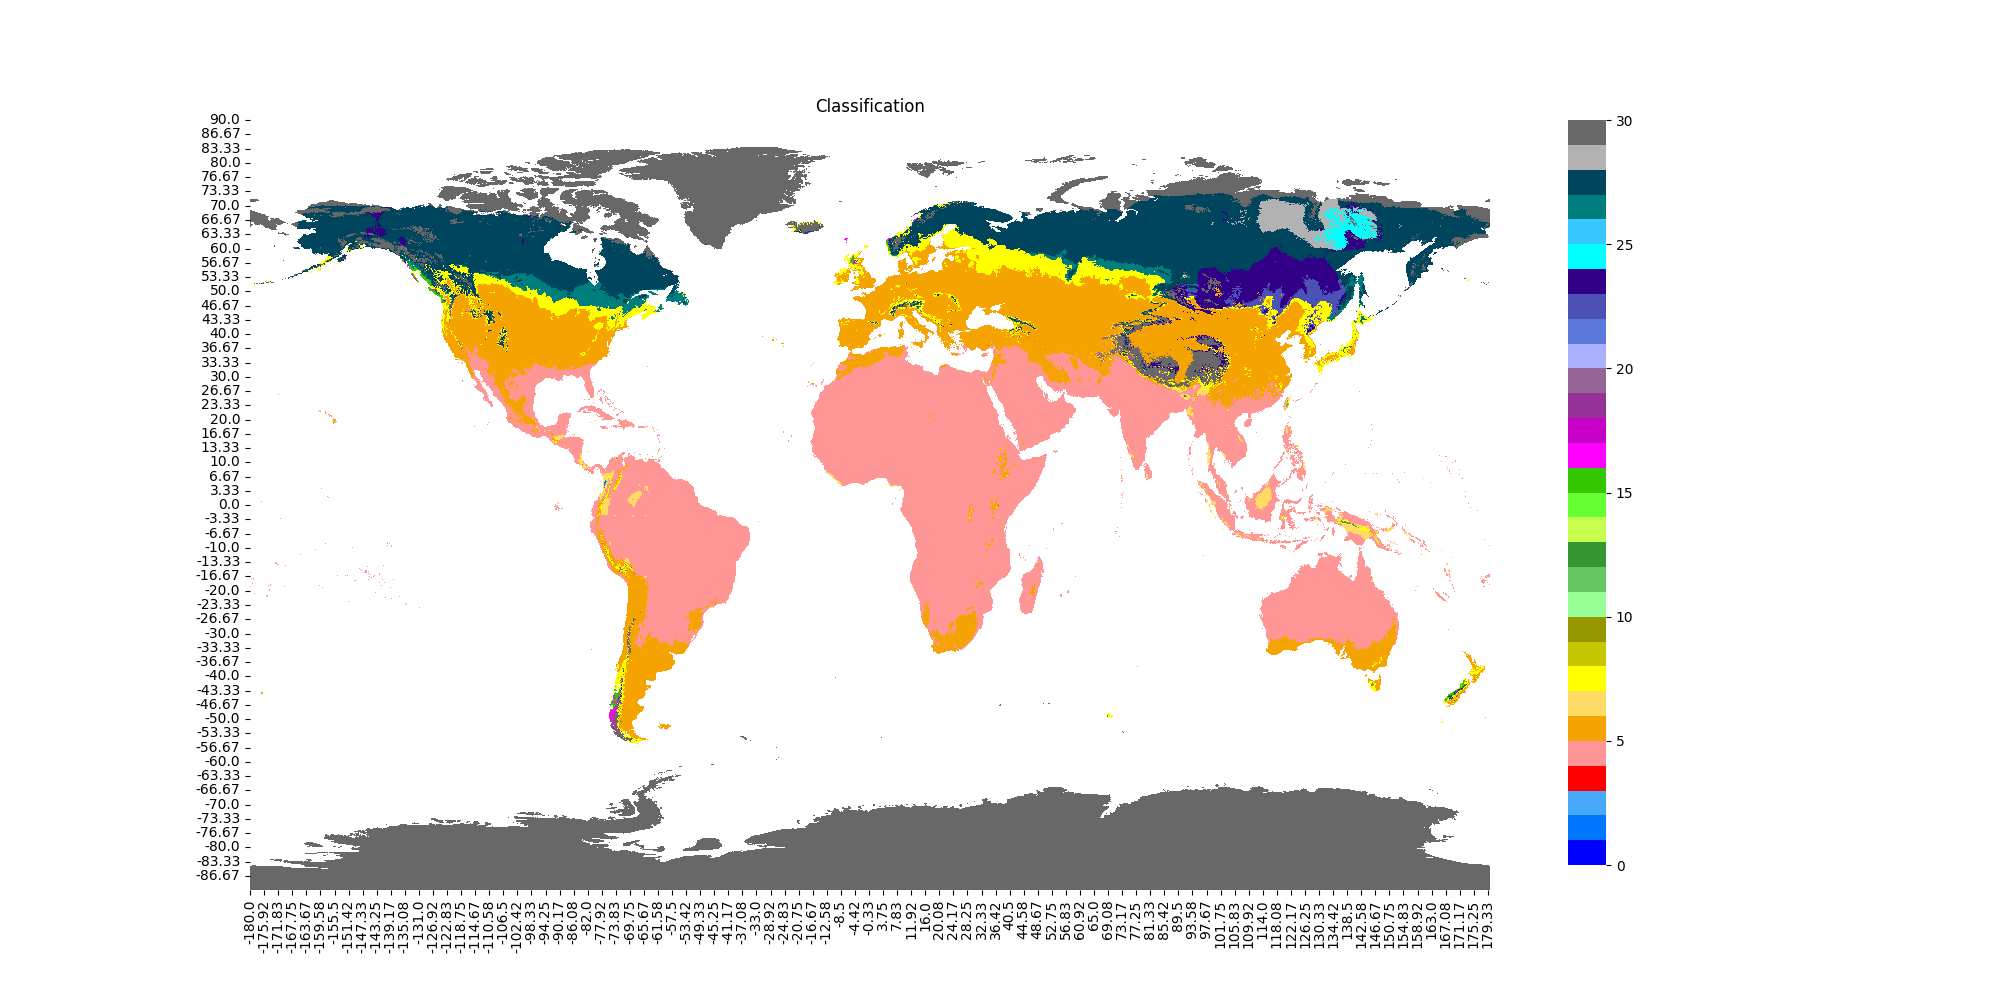
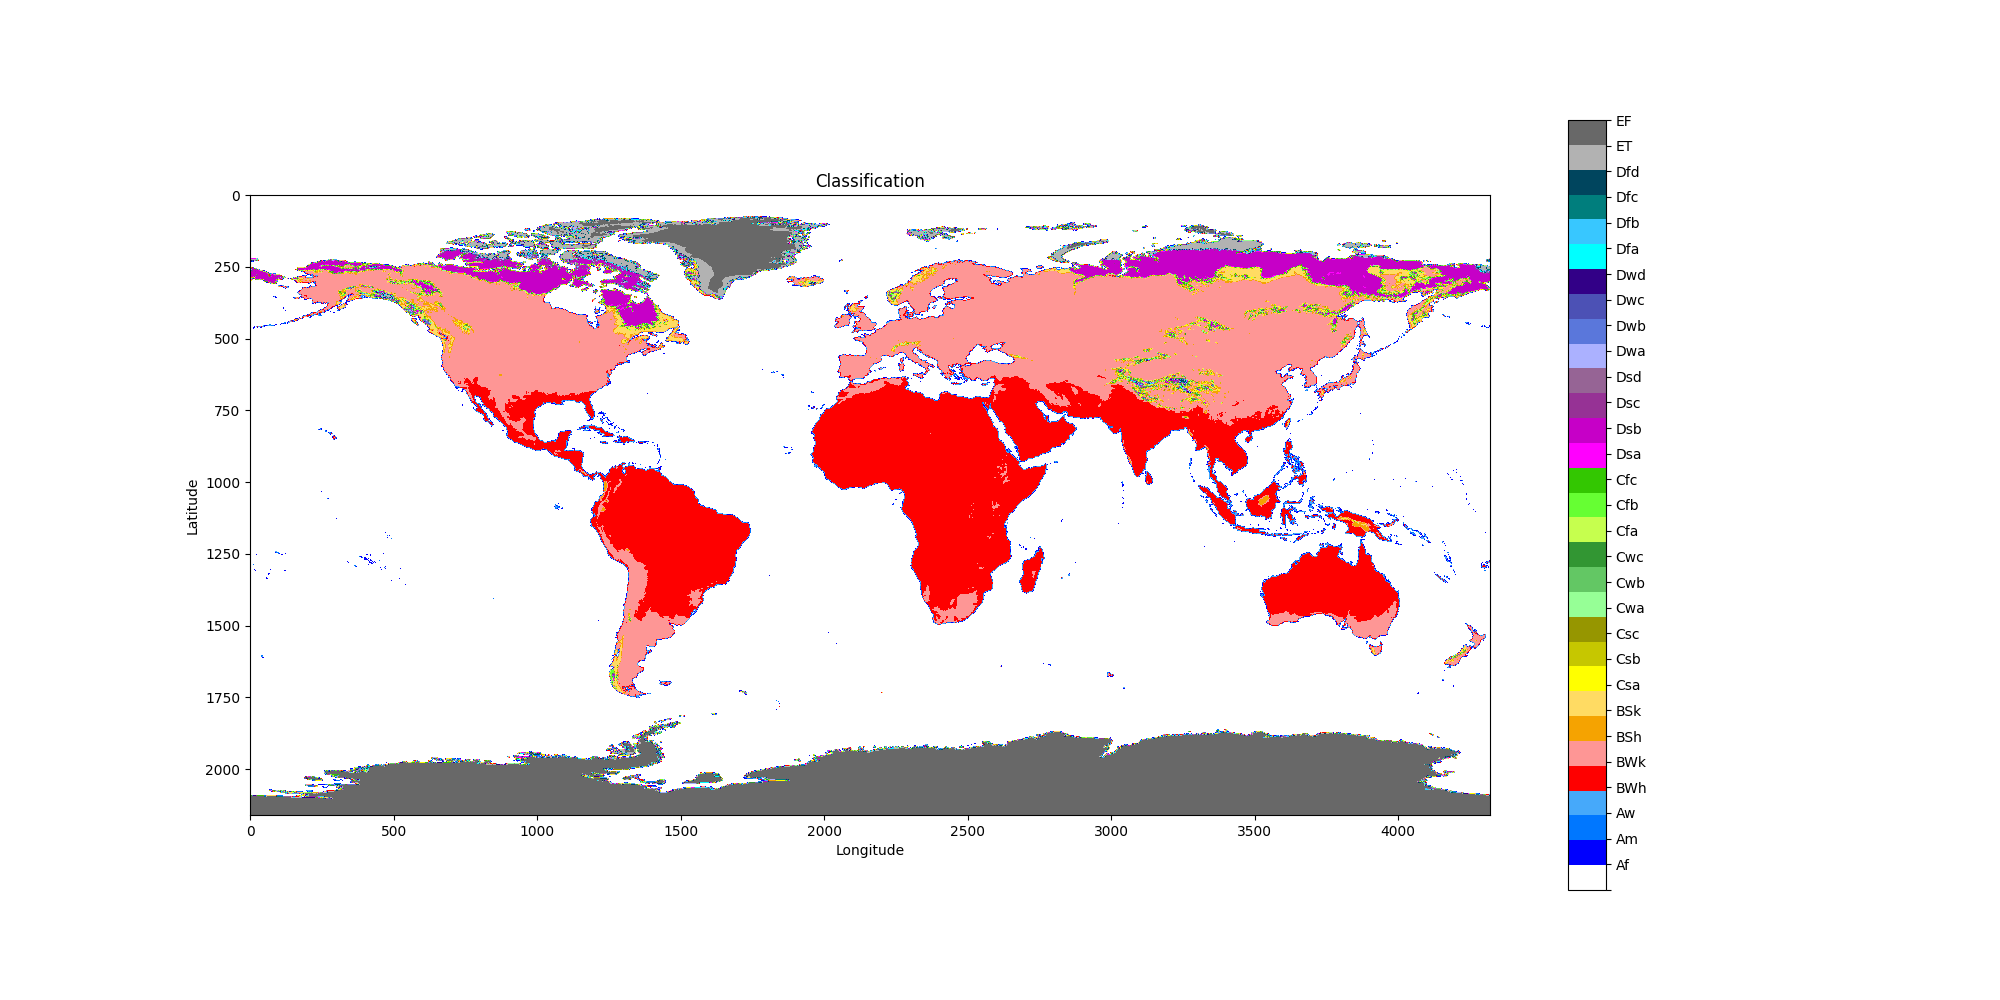
update to classification

diff --git a/classify.py b/classify.py
@@ -2,7 +2,6 @@ import os
 import numpy as np
 import pandas as pd
 from tqdm import tqdm
-import seaborn as sns
 import matplotlib.pyplot as plt
 from data.constants import RESOLUTIONS, AnsiColours
 from data.downloader import downloadData, extractData
@@ -95,7 +94,7 @@ def readGeodataDirs(dataDirs: list[str], dataPath: str = "./data"):
     return geoData
 
 
-def concurrentClassification(data: pd.DataFrame, chunks_size: int = 100, thread_count: int = 2):
+def concurrentClassification(data: pd.DataFrame, num_chunks: int = 100, thread_count: int = 2):
     """
     Classifies the given geodata concurrently.
 
@@ -103,14 +102,15 @@ def concurrentClassification(data: pd.DataFrame, chunks_size: int = 100, thread_
 
     Args:
         data (pd.DataFrame): The geodata to classify.
-        chunks_size (int, optional): Number of chunks. Defaults to 100.
+        num_chunks (int, optional): Number of chunks. Defaults to 100.
         thread_count (int, optional): Number of threads. Defaults to 2.
 
     Returns:
         pd.DataFrame: The classified geodata.
     """
 
-    chunk_size = data.shape[0] // chunks_size
+    """ # TODO Confirm the new method works before removing this
+    chunk_size = data.shape[0] // chunks
 
     for i in tqdm(range(0, data.shape[0], chunk_size), desc="Computing chunks", unit="chunks"):
 
@@ -118,6 +118,19 @@ def concurrentClassification(data: pd.DataFrame, chunks_size: int = 100, thread_
                  'classification'] = computeChunk(data.loc[i:i+chunk_size, :])
 
     return data
+    """
+
+    chunk_size = data.shape[0] // num_chunks
+    chunks = [data.iloc[i:i + chunk_size]
+              for i in range(0, data.shape[0], chunk_size)]
+
+    with concurrent.futures.ThreadPoolExecutor(max_workers=thread_count) as executor:
+        classified_chunks = list(executor.map(classify_chunk, chunks))
+
+    # Combine the classified chunks back into a single DataFrame
+    classified_data = pd.concat(classified_chunks)
+
+    return classified_data
 
 
 def computeChunk(chunk):
@@ -357,7 +370,7 @@ def koppenGeigerClassify(bioVarSeries, tavgSeries, precSeries, north_hemisphere:
 
 if __name__ == "__main__":
 
-    recompute = True
+    recompute = False
     resolution = "5m"
 
     if recompute:
@@ -376,7 +389,7 @@ if __name__ == "__main__":
 
     print("Plotting...")
     # plot the data using the colors from `CLASSIFICATION_COLORS`
-    plotHeatmap(plt, sns, classification,
-                "Classification", cmap=CLASSIFICATION_CMAP, ticklabels=CLASSIFICATION_NAMES)
+    plotHeatmap(plt, classification,
+                "Classification", cmap=CLASSIFICATION_CMAP, tick_labels=CLASSIFICATION_NAMES)  # type: ignore
     plt.savefig(f"./classification_{resolution}.png")
     plt.show()

diff --git a/data/dataUtils.py b/data/dataUtils.py
@@ -73,14 +73,15 @@ def writeGeoData(data, metadata, file: str):
         dataset.write(data, 1)
 
 
-def plotHeatmap(plt, sns, data, title, cmap="coolwarm"):
+def plotHeatmap(plt, data, title, cmap="coolwarm", tick_labels=[0, 1]):
     """
     Plot a heatmap of the data.
 
     Args:
         data (DataFrame): The data to plot.
         title (str): The title of the plot.
-        unit (str): The unit of the data (eg: "°C")
+        cmap (str, optional): The color map to use. Defaults to "coolwarm".
+        tick_labels (list, optional): The tick labels to use. Defaults to [0, 1].
     """
     dims = data.shape[::-1]
 
@@ -92,4 +93,6 @@ def plotHeatmap(plt, sns, data, title, cmap="coolwarm"):
     plt.title(title)
     plt.xlabel("Longitude")
     plt.ylabel("Latitude")
-    sns.heatmap(data, annot=False, cmap=cmap, cbar=True)
+    plt.imshow(data, cmap=cmap)
+    cbar = plt.colorbar(ticks=np.arange(len(tick_labels)))
+    cbar.set_ticklabels(tick_labels)
